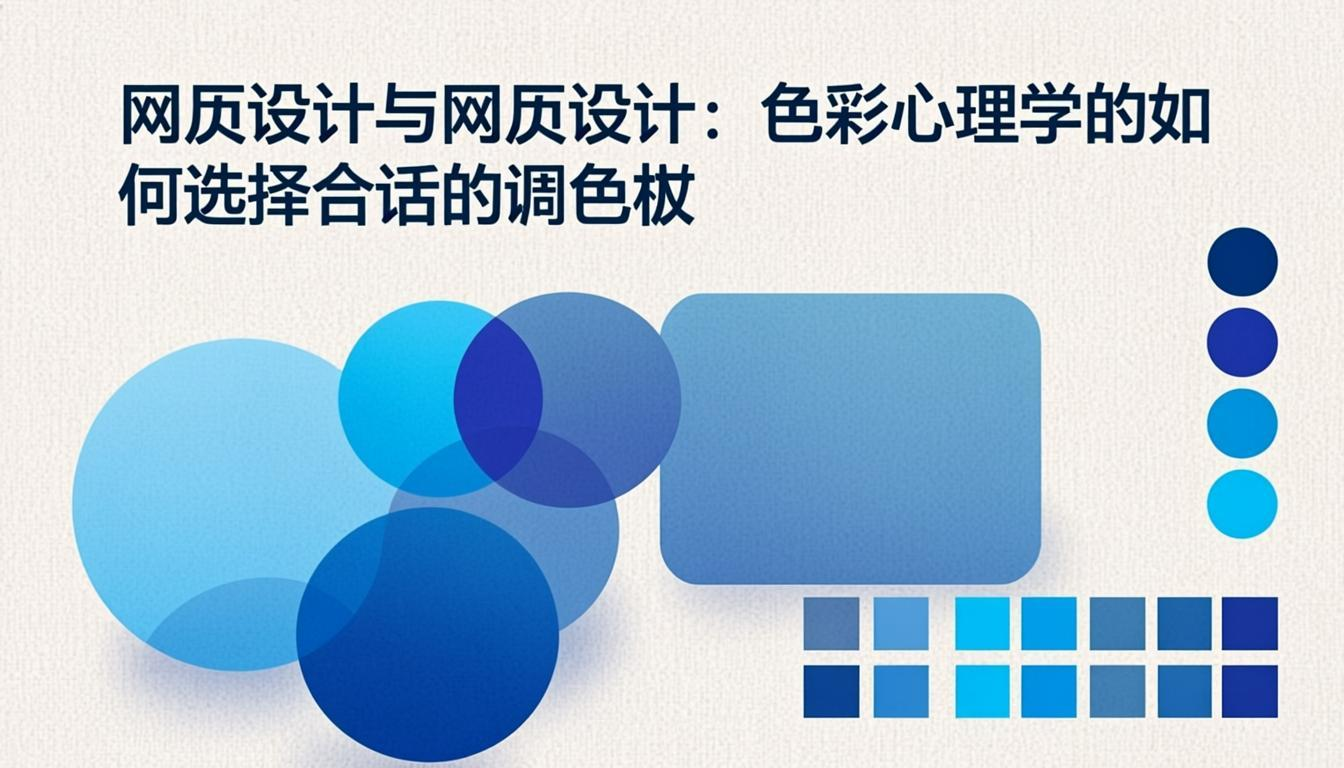
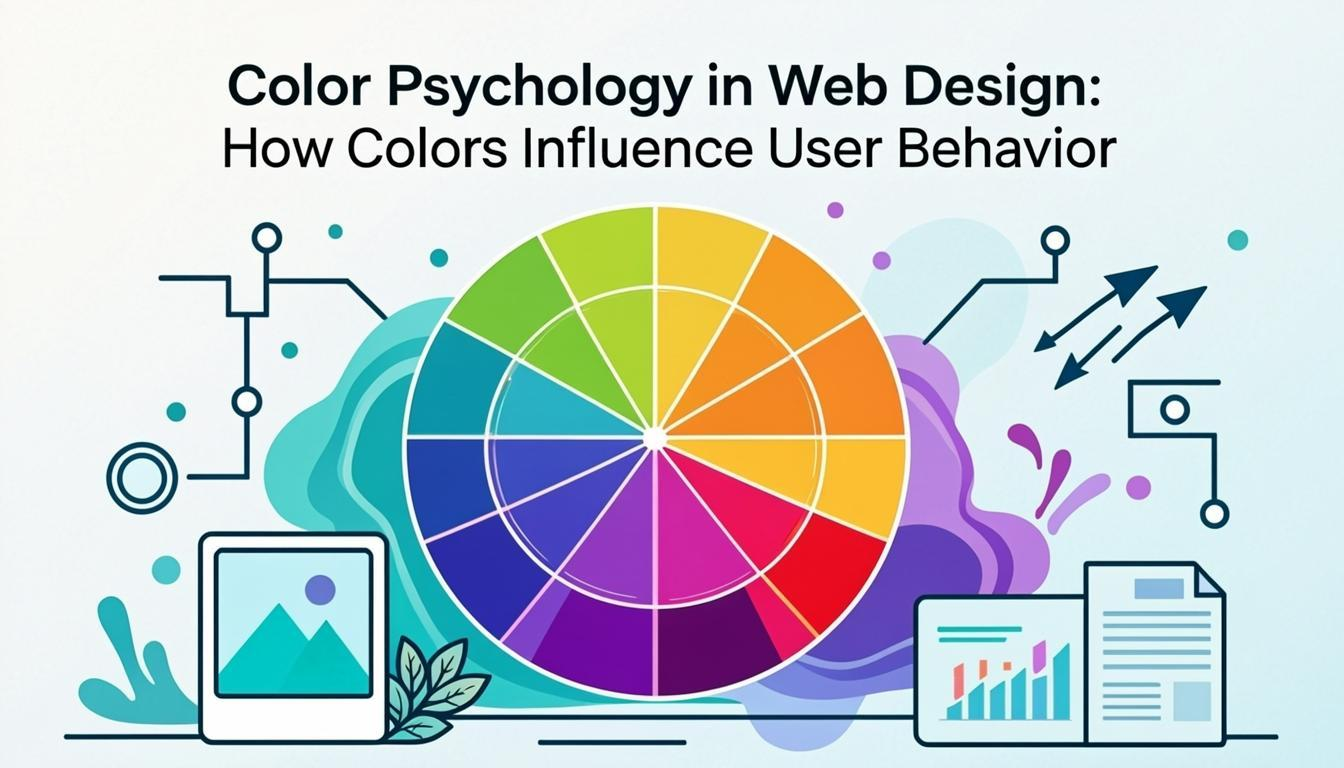
b50634d2-4255-4c7d-b7e7-cf0a36cc4192

diff --git a/src/components/portfolio/BlogArticleModal.tsx b/src/components/portfolio/BlogArticleModal.tsx
@@ -34,6 +34,7 @@ export type ArticleModalProps = {
   isOpen: boolean;
   onClose: () => void;
   onNavigate?: (articleId: string) => void;
+  allArticles?: BlogArticle[];
 };
 
 /* ------------------------------------------------------------------ */
@@ -53,7 +54,7 @@ function openShareWindow(url: string) {
 /*  Content Block renderer (unchanged)                                 */
 /* ------------------------------------------------------------------ */
 
-function ContentBlock({ block, index }: { block: BlogContentBlock; index: number }) {
+function ContentBlock({ block, index, articleList }: { block: BlogContentBlock; index: number; articleList?: BlogArticle[] }) {
   if (block.type === 'heading') {
     return (
       <motion.h3
@@ -173,7 +174,9 @@ function ContentBlock({ block, index }: { block: BlogContentBlock; index: number
         </div>
         <div className="space-y-3">
           {block.links.map((link) => {
-            const relatedArticle = articles.find((a) => a.id === link.articleId);
+            const relatedArticle = articleList
+              ? articleList.find((a) => a.id === link.articleId)
+              : articles.find((a) => a.id === link.articleId);
             return (
               <a
                 key={link.articleId}
@@ -396,17 +399,44 @@ function ShareBar({
 function RelatedPosts({
   article,
   onNavigate,
+  allArticles: articleList,
 }: {
   article: BlogArticle;
   onNavigate?: (articleId: string) => void;
+  allArticles?: BlogArticle[];
 }) {
-  const related = useMemo(() => {
-    return articles
-      .filter((a) => a.category === article.category && a.id !== article.id)
-      .slice(0, 3);
-  }, [article.id, article.category]);
+  const { sameCategory, crossCategory } = useMemo(() => {
+    const pool = articleList && articleList.length > 0 ? articleList : articles;
+    const candidates = pool.filter((a) => a.id !== article.id);
 
-  if (related.length === 0) return null;
+    // 1. Same category (priority)
+    const same = candidates
+      .filter((a) => a.category === article.category)
+      .slice(0, 2);
+
+    // 2. Cross-category by overlapping tags
+    const articleTags = new Set((article.tags || []).map((t) => t.toLowerCase()));
+    const scored = candidates
+      .filter((a) => a.category !== article.category)
+      .map((a) => {
+        const overlap = (a.tags || []).filter((t) => articleTags.has(t.toLowerCase())).length;
+        return { article: a, overlap };
+      })
+      .filter((s) => s.overlap > 0)
+      .sort((a, b) => b.overlap - a.overlap)
+      .slice(0, 3);
+
+    return {
+      sameCategory: same,
+      crossCategory: scored.map((s) => s.article),
+    };
+  }, [article.id, article.category, article.tags, articleList]);
+
+  const allRelated = [...sameCategory, ...crossCategory].slice(0, 3);
+
+  if (allRelated.length === 0) return null;
+
+  const hasCrossCategory = crossCategory.length > 0 && sameCategory.length < 3;
 
   return (
     <motion.div
@@ -421,7 +451,7 @@ function RelatedPosts({
       </div>
 
       <div className="grid grid-cols-1 sm:grid-cols-2 lg:grid-cols-3 gap-3 sm:gap-4">
-        {related.map((relatedArticle, idx) => (
+        {allRelated.map((relatedArticle, idx) => (
           <motion.button
             key={relatedArticle.id}
             initial={{ opacity: 0, y: 12 }}
@@ -452,6 +482,22 @@ function RelatedPosts({
               {relatedArticle.title}
             </h4>
 
+            {/* Shared tags indicator for cross-category */}
+            {relatedArticle.category !== article.category && (() => {
+              const sharedTags = (relatedArticle.tags || []).filter(
+                (t) => (article.tags || []).some((at) => at.toLowerCase() === t.toLowerCase())
+              );
+              return sharedTags.length > 0 ? (
+                <div className="flex flex-wrap gap-1 mb-1.5">
+                  {sharedTags.slice(0, 2).map((tag) => (
+                    <span key={tag} className="text-[9px] px-1.5 py-0.5 rounded bg-white/5 text-slate-500">
+                      #{tag}
+                    </span>
+                  ))}
+                </div>
+              ) : null;
+            })()}
+
             {/* Read Time */}
             <div className="flex items-center gap-1.5 text-xs text-slate-500">
               <Clock className="w-3 h-3" />
@@ -473,6 +519,7 @@ export default function BlogArticleModal({
   isOpen,
   onClose,
   onNavigate,
+  allArticles: articleList,
 }: ArticleModalProps) {
   const contentRef = useRef<HTMLDivElement>(null);
   const mounted = useSyncExternalStore(subscribe, getSnapshot, getServerSnapshot);
@@ -714,12 +761,12 @@ export default function BlogArticleModal({
                 {/* Full article content */}
                 <div>
                   {article.content.map((block, idx) => (
-                    <ContentBlock key={idx} block={block} index={idx} />
+                    <ContentBlock key={idx} block={block} index={idx} articleList={articleList} />
                   ))}
                 </div>
 
                 {/* Related Posts */}
-                <RelatedPosts article={article} onNavigate={handleNavigate} />
+                <RelatedPosts article={article} onNavigate={handleNavigate} allArticles={articleList} />
 
                 {/* Share Bar */}
                 <div className="mt-8 sm:mt-10 pt-6 border-t border-white/5">

diff --git a/src/components/portfolio/BlogSection.tsx b/src/components/portfolio/BlogSection.tsx
@@ -2469,6 +2469,7 @@ export default function BlogSection() {
           article={openArticle}
           isOpen={openArticleIndex !== null}
           onClose={() => setOpenArticleIndex(null)}
+          allArticles={allArticles}
         />
 
         {/* Popular Topics */}

diff --git a/worklog.md b/worklog.md
@@ -2272,3 +2272,27 @@ Stage Summary:
 - Contact page social section now shows only Fiverr + Twitter (X) icons
 - WhatsApp, Email (mailto), and LinkedIn completely removed from all social sections
 - WebDevReview cron job created (ID: 178654, every 15min)
+
+---
+Task ID: 2
+Agent: Main Agent
+Task: Audit blog images for Chinese text, optimize internal linking, add related post suggestions
+
+Work Log:
+- Used VLM to scan all 15 blog images in /public/blog/ for Chinese characters
+- Found 3 images with Chinese text: category-post-1.png, speed.png, webdesign.png
+- Regenerated all 3 with explicit "English text only, NO Chinese" prompts
+- Verified all regenerated images pass VLM Chinese text check
+- Fixed BlogArticleModal to accept allArticles prop (merged DB + hardcoded)
+- Updated ContentBlock to receive articleList for related-reading link resolution
+- Updated RelatedPosts component to use full article pool instead of hardcoded only
+- Enhanced RelatedPosts algorithm: same-category first (up to 2), then cross-category by tag overlap (up to 3 total)
+- Added shared tag indicators (#tag) on cross-category related post cards
+- Passed allArticles from BlogSection to BlogArticleModal
+
+Stage Summary:
+- All blog images are now Chinese-text-free (verified via VLM)
+- Internal linking (related-reading blocks) now resolves against all articles (DB + hardcoded)
+- Related posts suggestions now show: same-category + cross-category with tag overlap
+- DB articles can now find related posts from both DB and hardcoded article pools
+- Lint passed, dev server compiled successfully